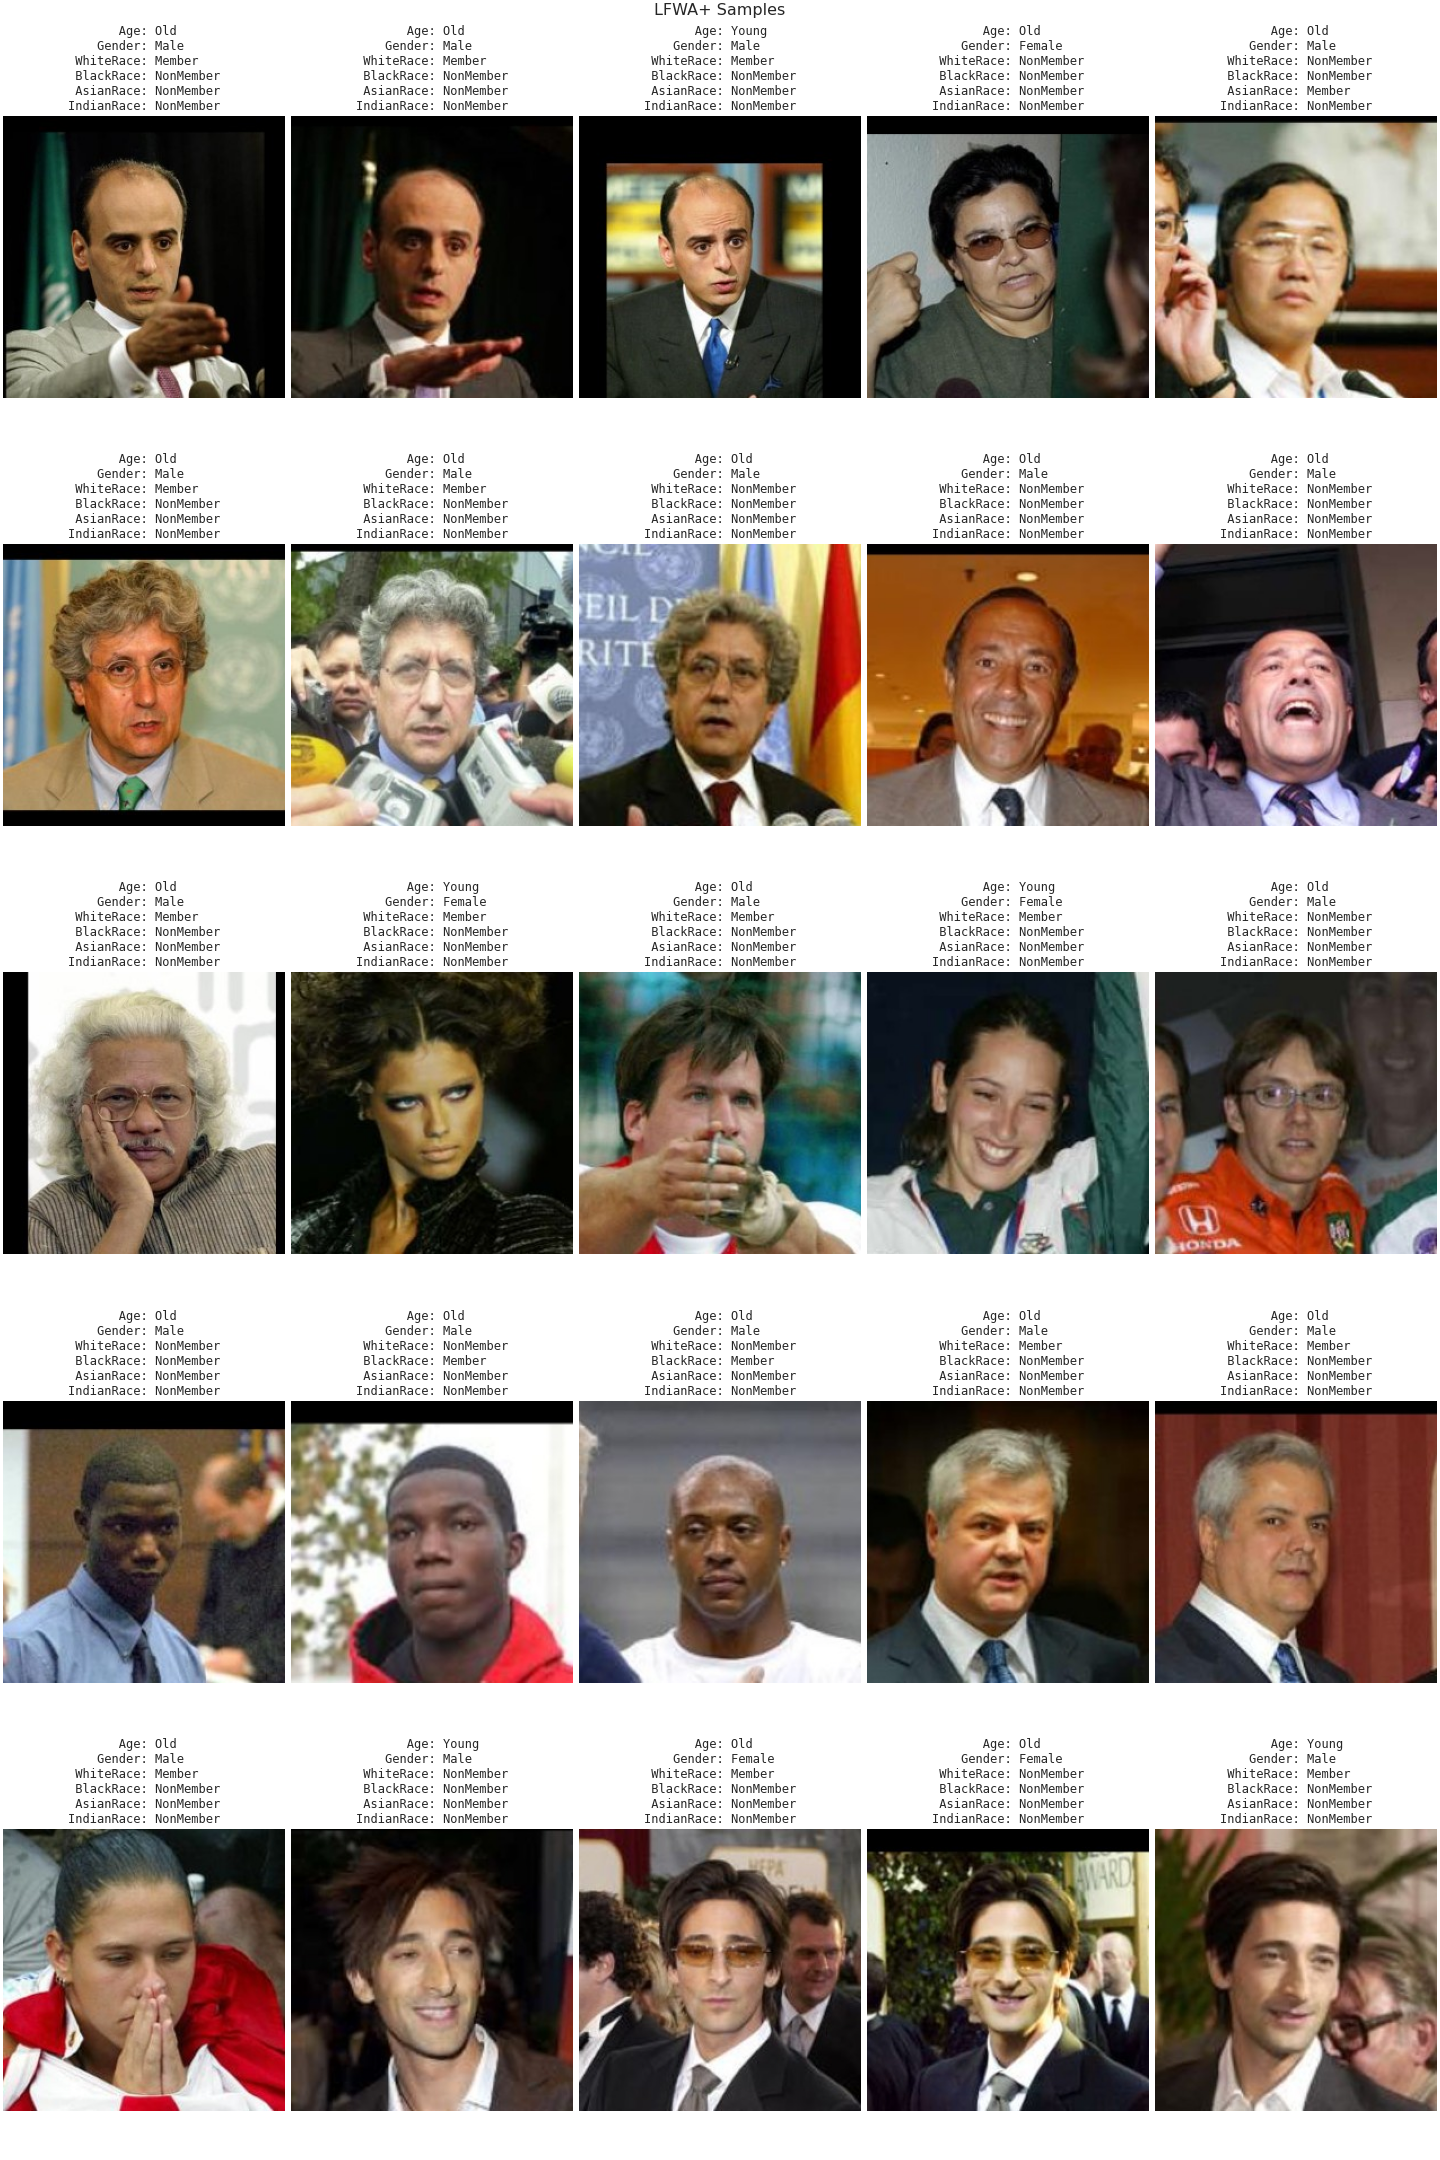
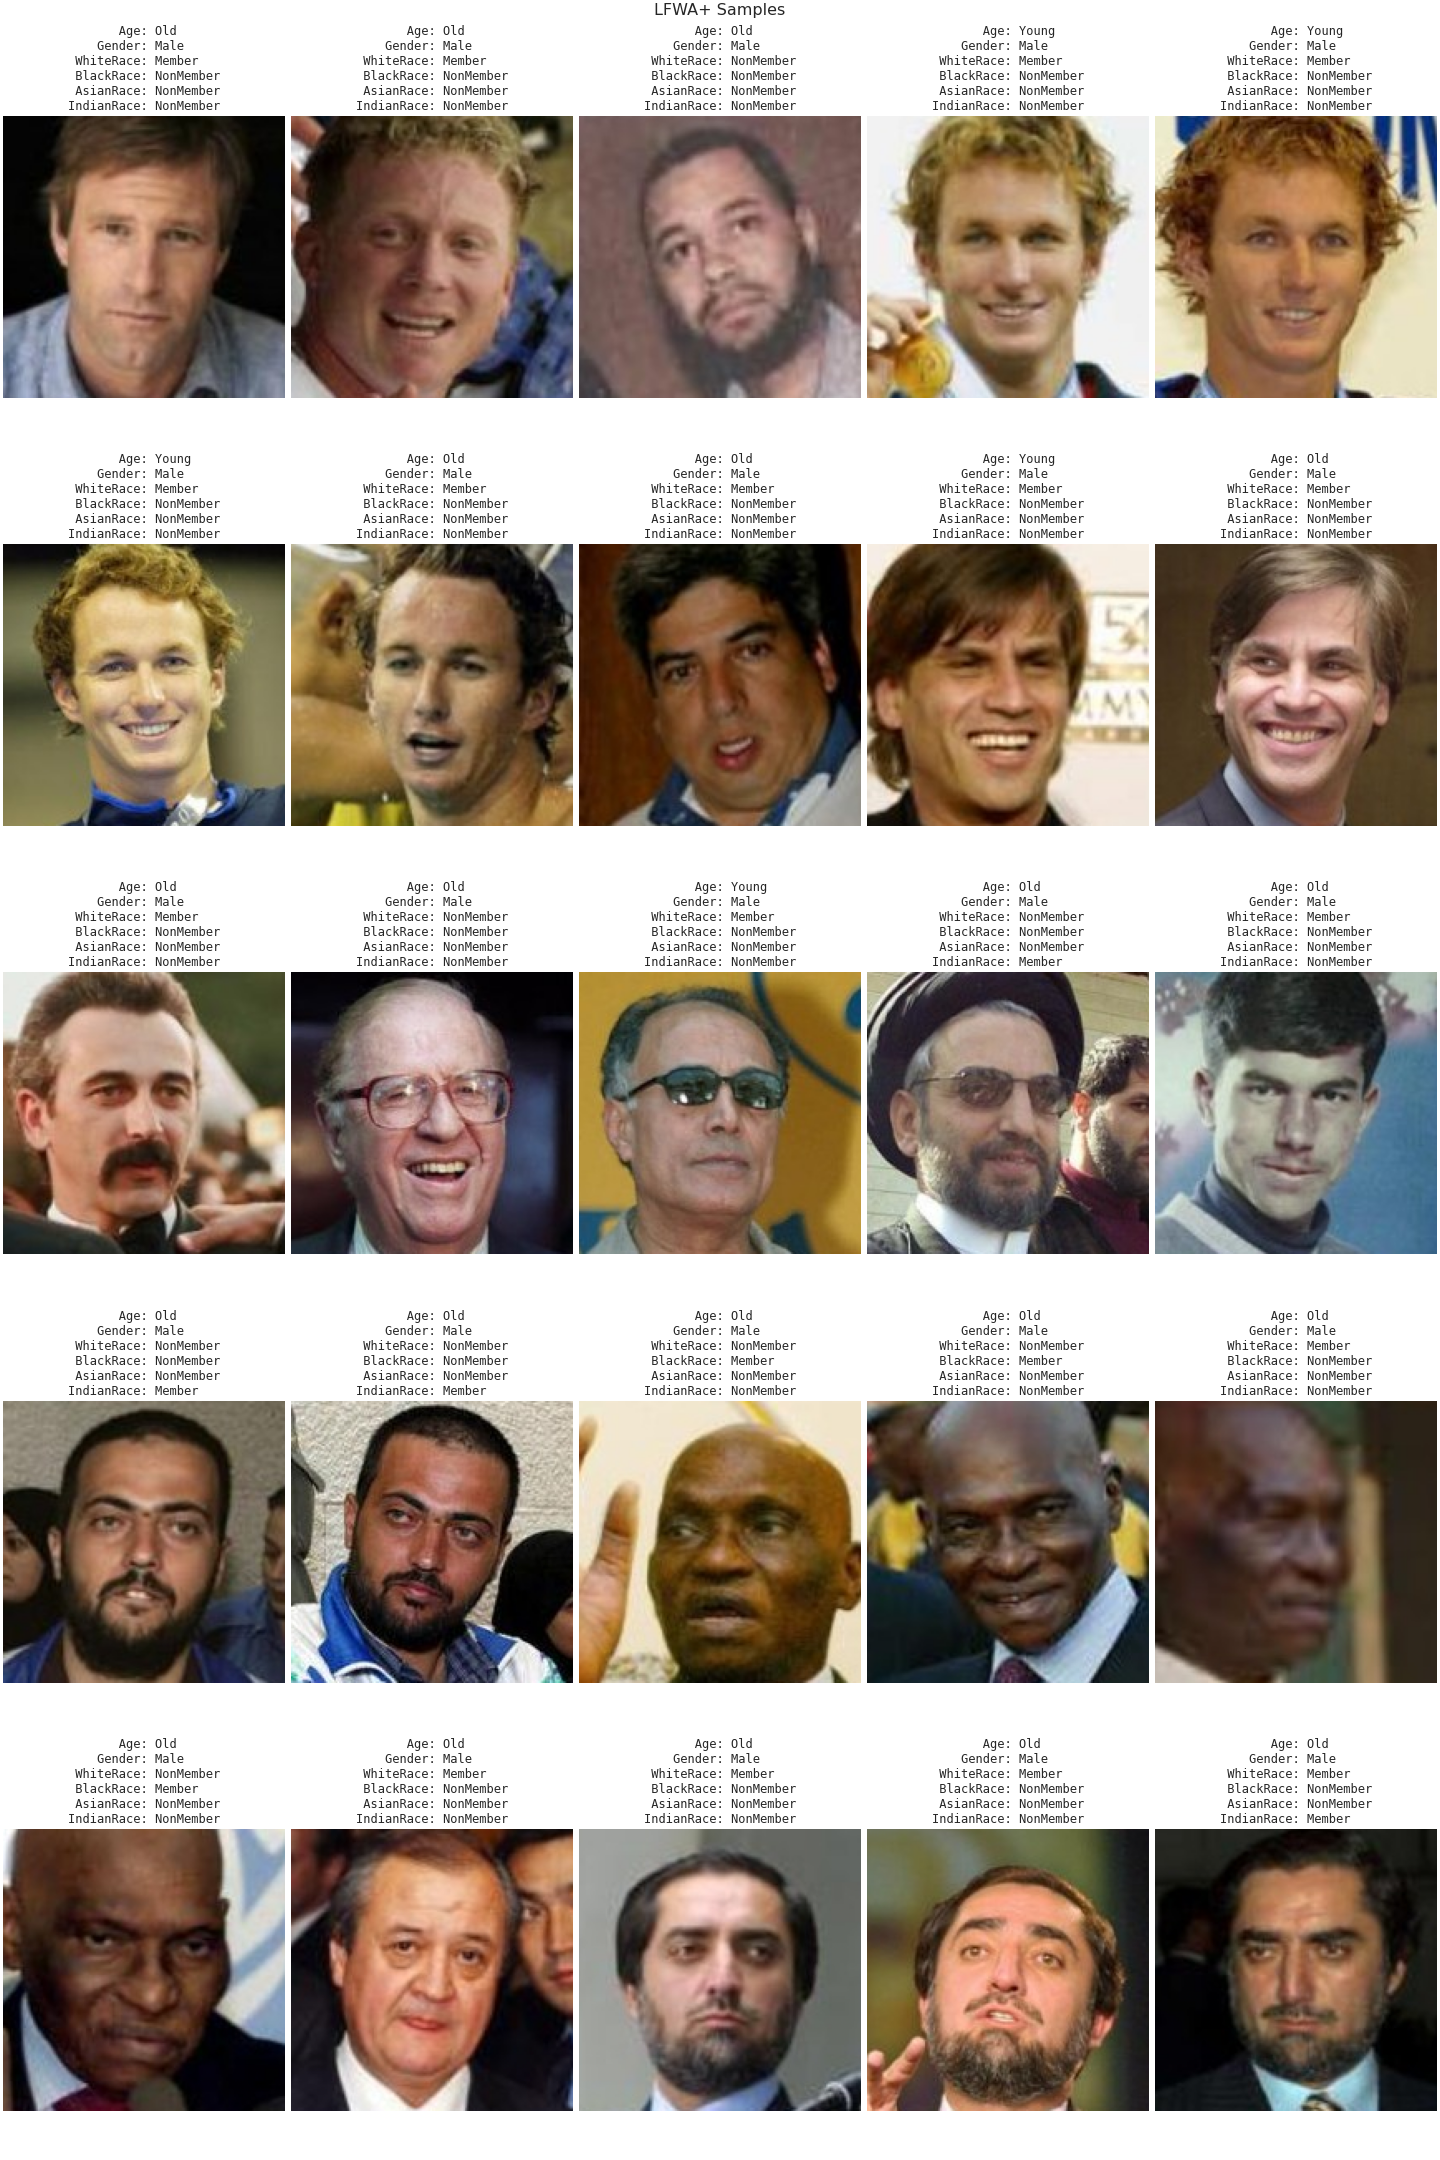
Added image centering and cropping for LFWA+
Former-commit-id: 7e7582fb0f417450e69cf79a39210eaef4cd312e [formerly 6db1a3df78ce4a31277adcf4232fe149b81949df]
Former-commit-id: 724818946c85bc0a1f5f7d48be029655c7fbf22e

diff --git a/fair_hpo_smac/data/LFWAPlus.py b/fair_hpo_smac/data/LFWAPlus.py
@@ -4,6 +4,7 @@ from pathlib import Path, PureWindowsPath
 from torch import tensor
 from torch.utils.data import Dataset
 from torchvision.io import read_image
+from torchvision.transforms import Compose, CenterCrop
 from mat73 import loadmat
 
 from data.util.DatasetSplit import create_dataset_split
@@ -54,7 +55,9 @@ class LFWAPlusDataset(Dataset):
         self.lfwa_attributes = loadmat(self.image_dir / "lfw_att_40.mat")
         self.lfwa_plus_attributes = loadmat(self.image_dir / "lfw_att_73.mat")
         self.image_file_paths = self.lfwa_attributes["name"]
-        self.transform = transform
+        self.transform = Compose(
+            [CenterCrop(170)] + ([transform] if transform is not None else [])
+        )
         self.target_transform = target_transform
         self.data = []
         self.in_memory = in_memory
@@ -67,8 +70,7 @@ class LFWAPlusDataset(Dataset):
     def get_data(self, index):
         image_file_path = PureWindowsPath(self.image_file_paths[index])
         image_data = read_image(str(self.image_dir / "lfw" / image_file_path))
-        if self.transform:
-            image_data = self.transform(image_data)
+        image_data = self.transform(image_data)
         age = int(1 - self.lfwa_attributes["label"][index, 39])
         gender = int(1 - self.lfwa_plus_attributes["label"][index, 0])
         white_race = int(self.lfwa_plus_attributes["label"][index, 2])
